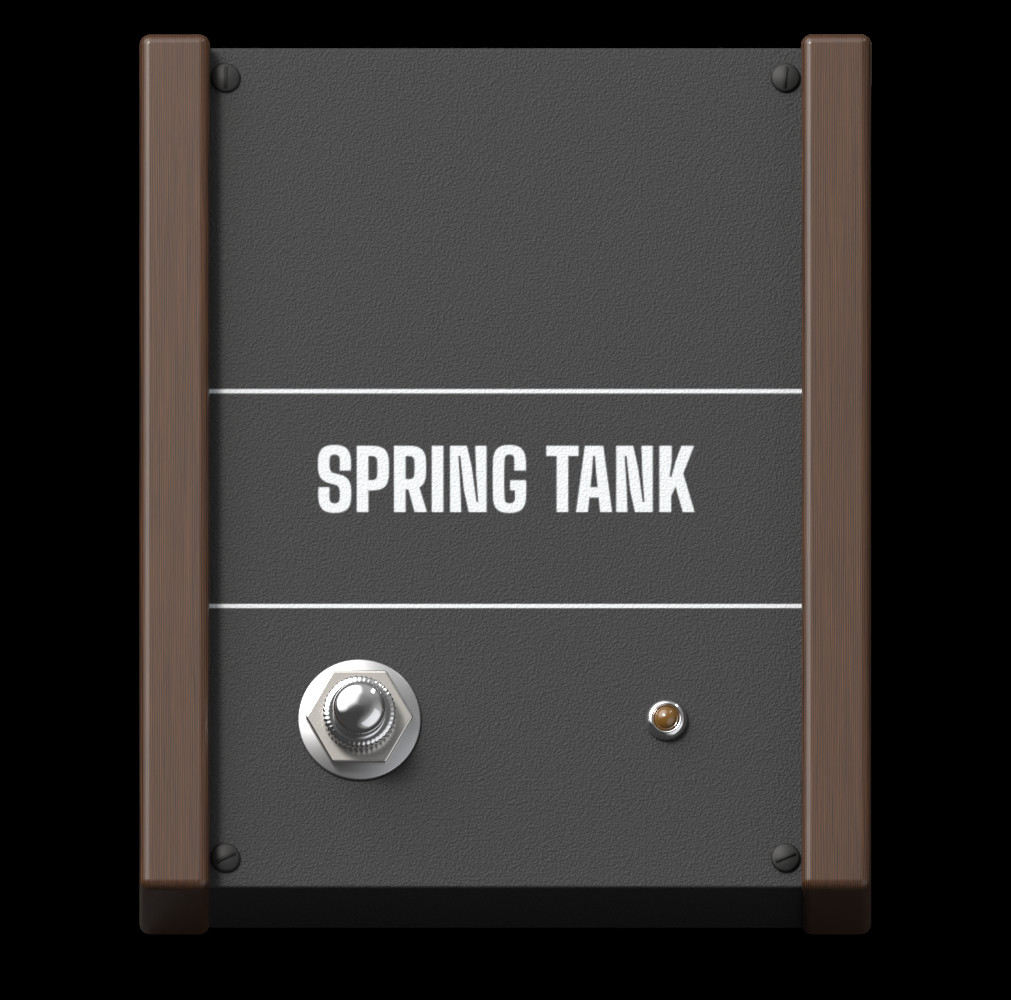
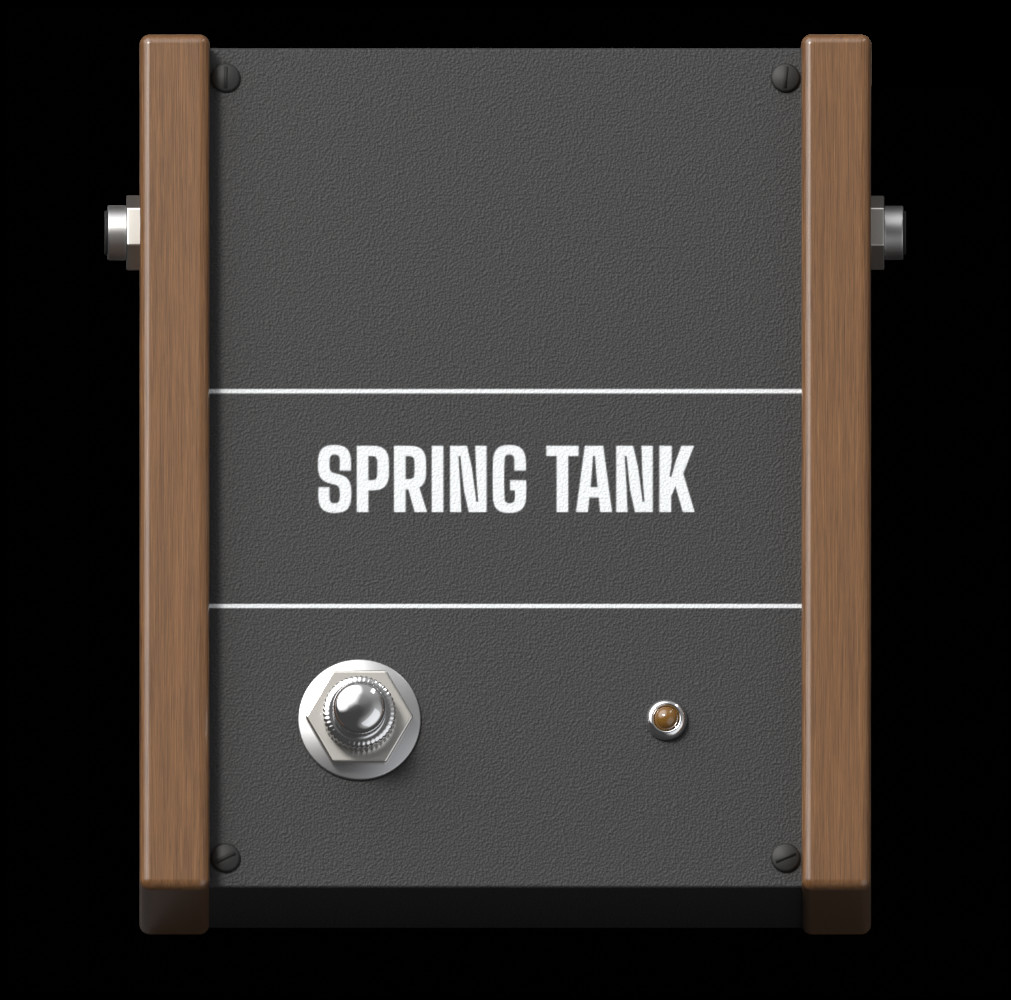
Tuner with a real hardware body; hardwood pedals get grain and jacks; better soft switches; gate light in pictures

Changed region(s): [[0.092, 0.031, 0.2146, 0.899], [0.7666, 0.031, 0.9199, 0.899]]

diff --git a/src/ui/Panels.cpp b/src/ui/Panels.cpp
@@ -2,6 +2,7 @@
 // Copyright (C) 2026 Riffhouse contributors. Licensed under AGPL-3.0-or-later.
 #include "AudioPicker.h"
 #include "Panels.h"
+#include "GearArt.h"
 #include "../plugin/DeviceLog.h"
 #include "../plugin/Reports.h"
 #include "../plugin/StandaloneHost.h"
@@ -24,7 +25,7 @@ TunerView::TunerView (RiffhouseProcessor& p) : proc (p)
 void TunerView::resized()
 {
     close.setBounds (getWidth() - 70, 20, 46, 46);
-    mute.setBounds (juce::Rectangle<int> (290, 28).withCentre ({ getWidth() / 2, 600 })); // with the rest of the tuner, not at the far edge
+    mute.setBounds (juce::Rectangle<int> (290, 28).withCentre ({ getWidth() / 2, 640 })); // with the rest of the tuner, not at the far edge
 }
 
 void TunerView::refresh()
@@ -49,6 +50,11 @@ void TunerView::paint (juce::Graphics& g)
     const bool inTune = live && std::abs (reading.cents) < 3.0f;
     const auto c = ! live ? colours::textFaint : (inTune ? colours::good : (std::abs (reading.cents) < 12.0f ? colours::warn : colours::accent));
     const float cx = (float) getWidth() * 0.5f;
+    // the tuner's body is photographed: the note and the needle are shown through its two windows
+    const bool unit = art::has ("tuner_unit");
+    if (unit)
+        art::draw (g, "tuner_unit", juce::Rectangle<float> (cx - 450.0f, 50.0f, 900.0f, 470.0f));
+    const float below = unit ? 30.0f : 0.0f;
 
     // note name, big
     const auto noteArea = juce::Rectangle<float> (420.0f, 190.0f).withCentre ({ cx, 210.0f });
@@ -58,7 +64,7 @@ void TunerView::paint (juce::Graphics& g)
         g.fillEllipse (noteArea.withSizeKeepingCentre (440.0f, 300.0f));
     }
     const bool display = look() != Look::studio;
-    if (display)
+    if (display && ! unit)
         drawWell (g, noteArea.withSizeKeepingCentre (340.0f, 210.0f), 16.0f);
     g.setColour (live ? (display && inTune ? colours::good : colours::text) : colours::textFaint.withAlpha (0.6f));
     g.setFont (display ? font (165.0f, Weight::numeric) : font (168.0f, Weight::display));
@@ -81,7 +87,7 @@ void TunerView::paint (juce::Graphics& g)
     }
 
     // horizontal cents scale
-    const float w = 680.0f, y = 400.0f;
+    const float w = unit ? 600.0f : 680.0f, y = 400.0f;
     const float x0 = cx - w * 0.5f;
     for (int cents = -50; cents <= 50; cents += 5)
     {
@@ -99,8 +105,8 @@ void TunerView::paint (juce::Graphics& g)
     }
     g.setFont (font (13.0f, Weight::semibold));
     g.setColour (colours::textFaint);
-    g.drawText ("FLAT", juce::Rectangle<float> (x0 - 90.0f, y - 10.0f, 70.0f, 20.0f), juce::Justification::centredRight);
-    g.drawText ("SHARP", juce::Rectangle<float> (x0 + w + 20.0f, y - 10.0f, 70.0f, 20.0f), juce::Justification::centredLeft);
+    g.drawText ("FLAT", juce::Rectangle<float> (x0 - (unit ? 78.0f : 90.0f), y - 10.0f, unit ? 60.0f : 70.0f, 20.0f), juce::Justification::centredRight);
+    g.drawText ("SHARP", juce::Rectangle<float> (x0 + w + (unit ? 18.0f : 20.0f), y - 10.0f, unit ? 60.0f : 70.0f, 20.0f), juce::Justification::centredLeft);
 
     if (live)
     {
@@ -116,15 +122,15 @@ void TunerView::paint (juce::Graphics& g)
     g.setFont (font (22.0f, Weight::semibold));
     g.setColour (c);
     const juce::String status = ! live ? "Play one string" : (inTune ? "In tune" : (reading.cents < 0 ? "A little flat, tune up" : "A little sharp, tune down"));
-    g.drawText (status, juce::Rectangle<float> (600.0f, 30.0f).withCentre ({ cx, y + 86.0f }), juce::Justification::centred);
+    g.drawText (status, juce::Rectangle<float> (600.0f, 30.0f).withCentre ({ cx, y + 86.0f + below }), juce::Justification::centred);
     g.setFont (font (14.5f));
     g.setColour (colours::textDim);
     if (live)
         g.drawText (juce::String (reading.hz, 1) + juce::String (" Hz, ") + (reading.cents > 0 ? "+" : "") + juce::String (juce::roundToInt (reading.cents)) + " cents",
-                    juce::Rectangle<float> (500.0f, 24.0f).withCentre ({ cx, y + 116.0f }), juce::Justification::centred);
+                    juce::Rectangle<float> (500.0f, 24.0f).withCentre ({ cx, y + 116.0f + below }), juce::Justification::centred);
     g.setColour (colours::textFaint);
     g.drawText ("Any tuning works: standard, drop, open or down-tuned. It always shows the nearest note.",
-                juce::Rectangle<float> (760.0f, 24.0f).withCentre ({ cx, y + 146.0f }), juce::Justification::centred);
+                juce::Rectangle<float> (760.0f, 24.0f).withCentre ({ cx, y + 146.0f + below }), juce::Justification::centred);
 }
 
 //==============================================================================

diff --git a/tools/gear3d/tuner.py b/tools/gear3d/tuner.py
@@ -1,0 +1,73 @@
+# Riffhouse - free, open-source guitar rig
+# Copyright (C) 2026 Riffhouse contributors. Licensed under AGPL-3.0-or-later.
+"""Photograph the tuner's hardware: a stage tuner's face with a note window and a needle window.
+
+    blender -b -P tuner.py -- <output folder> [--samples n] [--scale s]
+
+Nominal pixels of the tuner page (Panels.cpp, TunerView) shifted so that x = 0 is 450 left of the
+page's centre and y = 0 is 50 below its top. The note and the needle are drawn by the app on top.
+"""
+import math
+import os
+import sys
+
+sys.path.insert(0, os.path.dirname(os.path.abspath(__file__)))
+import common as c  # noqa: E402
+import amps  # noqa: E402
+from common import CM  # noqa: E402
+
+D = 2.4
+UNIT = (20.0, 14.0, 860.0, 430.0)
+NOTE = (150.0, 50.0, 600.0, 220.0)
+NEEDLE = (60.0, 300.0, 780.0, 118.0)
+
+
+def build(out, samples, scale):
+    st = c.Stage((0.0, 0.0, 900.0, 470.0), D, scale=scale, samples=samples, floor=True)
+
+    def rbox(name, r, z0, z1, mat, corner=0.0):
+        p, q = st.at(r[0], r[1], z1), st.at(r[0] + r[2], r[1] + r[3], z1)
+        return c.box(name, p.x, q.x, q.y, p.y, z0, z1, mat, corner=corner)
+
+    alu = c.principled("tuner-alu", (0.034, 0.036, 0.04), metallic=0.92, rough=0.36)
+    n = c.Nodes(alu)
+    grain = n.noise(120.0, 4.0, stretch=(0.012, 22.0, 22.0))
+    n.link(n.bump(grain, 0.5, 0.008), n.bsdf.inputs["Normal"])
+    n.link(n.math("MULTIPLY_ADD", grain, 0.18, 0.28), n.bsdf.inputs["Roughness"])
+    glass = c.principled("tuner-glass", (0.004, 0.0045, 0.005), rough=0.12, coat=1.0, coat_rough=0.02)
+    body = rbox("unit", UNIT, 0.0, D, alu, corner=16 * CM)
+    c.grid(body, 0.4)
+    for name, r, rad in (("note", NOTE, 14), ("needle", NEEDLE, 12)):
+        c.cut(body, rbox(name + "-well", r, D - 0.7, D + 1, c.black(), corner=rad * CM))
+    mod = body.modifiers.new("chamfer", "BEVEL")
+    mod.width, mod.segments, mod.limit_method, mod.angle_limit = 0.16, 3, "ANGLE", math.radians(50)
+    body.modifiers.new("normals", "WEIGHTED_NORMAL")
+    for name, r, rad in (("note", NOTE, 14), ("needle", NEEDLE, 12)):
+        rbox(name + "-glass", r, D - 0.74, D - 0.7, glass, corner=rad * CM)
+        # a chrome rim round each window, a hair proud of the panel
+        rim = rbox(name + "-rim", (r[0] - 5, r[1] - 5, r[2] + 10, r[3] + 10), D - 0.02, D + 0.07, c.chrome(), corner=(rad + 5) * CM)
+        c.cut(rim, rbox(name + "-rimcut", r, D - 1, D + 1, c.black(), corner=rad * CM))
+        c.roll(rim, 0.03, 3)
+    for sx in (UNIT[0] + 22, UNIT[0] + UNIT[2] - 22):
+        for sy in (UNIT[1] + 22, UNIT[1] + UNIT[3] - 22):
+            amps.screw_head(st, sx, sy, D, 0.2, c.chrome(), sx * 0.01 + sy * 0.02)
+    for fx in (UNIT[0] + 70, UNIT[0] + UNIT[2] - 70 - 60):
+        p, q = st.at(fx, UNIT[1] + UNIT[3] - 2, D * 0.5), st.at(fx + 60, UNIT[1] + UNIT[3] + 8, D * 0.5)
+        ft = c.box("foot", p.x, q.x, q.y, p.y, D * 0.15, D * 0.85, c.rubber(), corner=0.15)
+        c.roll(ft, 0.1, 3)
+    st.render(os.path.join(out, "tuner_unit.png"))
+
+
+def main():
+    args = sys.argv[sys.argv.index("--") + 1:] if "--" in sys.argv else sys.argv[1:]
+    out = args[0]
+    samples, scale = 128, 2.0
+    for i, a in enumerate(args):
+        if a == "--samples": samples = int(args[i + 1])
+        if a == "--scale": scale = float(args[i + 1])
+    os.makedirs(out, exist_ok=True)
+    build(out, samples, scale)
+
+
+if __name__ == "__main__":
+    main()

diff --git a/tools/gear3d/common.py b/tools/gear3d/common.py
@@ -354,26 +354,27 @@ def bakelite(): return principled("bakelite", (0.006, 0.006, 0.007), rough=0.22)
 
 
 def wood(seed=0.0):
-    """Varnished hardwood, the grain running the length of the box."""
-    m = principled("wood", (0.2, 0.09, 0.04), rough=0.45, coat=0.4, coat_rough=0.16)
+    """Varnished walnut, the grain running the length of the box: pores, a cathedral figure, a deep gloss."""
+    m = principled("wood", (0.2, 0.09, 0.04), rough=0.3, coat=0.7, coat_rough=0.07)
     n = Nodes(m)
     mp = n.new("ShaderNodeMapping")
-    mp.inputs["Scale"].default_value = (6.0, 0.22, 6.0)
+    mp.inputs["Scale"].default_value = (7.0, 0.18, 7.0)
     mp.inputs["Location"].default_value = (seed, seed * 0.37, 0.0)
     n.link(n.coord.outputs["Object"], mp.inputs["Vector"])
     nz = n.new("ShaderNodeTexNoise")
-    nz.inputs["Scale"].default_value = 1.6
-    nz.inputs["Detail"].default_value = 6.0
-    nz.inputs["Distortion"].default_value = 1.4
+    nz.inputs["Scale"].default_value = 1.8
+    nz.inputs["Detail"].default_value = 8.0
+    nz.inputs["Distortion"].default_value = 1.6
     n.link(mp.outputs["Vector"], nz.inputs["Vector"])
     wave = n.new("ShaderNodeTexWave", wave_type="BANDS", bands_direction="X")
-    wave.inputs["Scale"].default_value = 2.2
-    wave.inputs["Distortion"].default_value = 5.0
-    wave.inputs["Detail"].default_value = 3.0
+    wave.inputs["Scale"].default_value = 3.4
+    wave.inputs["Distortion"].default_value = 6.0
+    wave.inputs["Detail"].default_value = 4.0
     n.link(mp.outputs["Vector"], wave.inputs["Vector"])
-    f = n.math("ADD", n.math("MULTIPLY", wave.outputs["Fac"], 0.6), n.math("MULTIPLY", nz.outputs["Fac"], 0.5))
-    n.link(n.ramp(f, [(0.32, (0.008, 0.003, 0.0015)), (0.55, (0.04, 0.014, 0.005)), (0.78, (0.115, 0.044, 0.014))]), n.bsdf.inputs["Base Color"])
-    n.link(n.bump(f, 0.05, 0.01), n.bsdf.inputs["Normal"])
+    pores = n.noise(120.0, 2.0, stretch=(0.04, 1.0, 1.0))
+    f = n.math("ADD", n.math("MULTIPLY", wave.outputs["Fac"], 0.7), n.math("MULTIPLY", nz.outputs["Fac"], 0.45))
+    n.link(n.ramp(f, [(0.28, (0.014, 0.005, 0.002)), (0.5, (0.075, 0.03, 0.011)), (0.72, (0.2, 0.09, 0.034)), (0.9, (0.3, 0.15, 0.06))]), n.bsdf.inputs["Base Color"])
+    n.link(n.bump(n.math("ADD", f, n.math("MULTIPLY", pores, 0.6)), 0.12, 0.01), n.bsdf.inputs["Normal"])
     return m
 
 

diff --git a/tools/gear3d/pedals.py b/tools/gear3d/pedals.py
@@ -89,13 +89,18 @@ def stomp_switch(st, bodies, x, y, fs, parts):
 
 
 def soft_switch(st, bodies, x, y, fs, parts):
-    """A low soft-touch switch in a counterbore: a satin ring round a dished black button."""
+    """A soft-touch switch: a chromed flange and nut, a black rubber cap with a groove ring and fine pebble grain."""
     p, nrm = st.on(bodies, x, y)
     r = fs * 0.5
-    ring = c.lathe("ring", [(r * 0.98, 0), (r * 0.98, 0.1), (r * 0.94, 0.16), (r * 0.8, 0.17), (r * 0.78, 0.08)], parts["chrome"], seg=96)
-    cap = c.lathe("cap", [(r * 0.78, 0.05), (r * 0.78, 0.2), (r * 0.74, 0.25), (r * 0.6, 0.24), (r * 0.3, 0.215), (0.0001, 0.205)],
-                  c.principled("softcap", (0.02, 0.021, 0.023), rough=0.42), seg=96)
-    for ob in (ring, cap):
+    ring = c.lathe("ring", [(r * 1.02, 0), (r * 1.02, 0.09), (r * 0.98, 0.17), (r * 0.9, 0.2), (r * 0.84, 0.16), (r * 0.8, 0.08)], parts["chrome"], seg=128,
+                   flutes=36, depth=0.012, flute_rings=(0, 2))
+    rubber = c.principled("softcap", (0.014, 0.015, 0.016), rough=0.62)
+    n = c.Nodes(rubber)
+    n.link(n.bump(n.noise(260.0, 3.0), 0.5, 0.012), n.bsdf.inputs["Normal"])
+    cap = c.lathe("cap", [(r * 0.8, 0.06), (r * 0.8, 0.24), (r * 0.76, 0.31), (r * 0.7, 0.32), (r * 0.67, 0.27), (r * 0.64, 0.32), (r * 0.5, 0.31),
+                          (r * 0.3, 0.27), (0.0001, 0.255)], rubber, seg=128)
+    dot = c.lathe("pip", [(r * 0.12, 0.255), (r * 0.12, 0.27), (r * 0.08, 0.285), (0.0001, 0.288)], parts["chrome"], seg=32)
+    for ob in (ring, cap, dot):
         c.stand(ob, p, nrm)
 
 
@@ -338,9 +343,8 @@ def build(p, gear_dir, out_dir, samples, scale):
         stomp_switch(st, bodies, fx + fw / 2, fy + fh / 2, fs, parts)
     elif p["footStyle"] == 2:
         soft_switch(st, bodies, fx + fw / 2, fy + fh / 2, fs, parts)
-    if form != 4:
-        jy = by + bh * (0.13 if form == 5 else (0.19 if form == 1 else 0.22))
-        side_jacks(st, x0, x1, jy, H * 0.52, parts)
+    jy = by + bh * (0.13 if form == 5 else (0.19 if form == 1 else 0.22))
+    side_jacks(st, x0, x1, jy, H * 0.52, parts)
     if p["stripe"] == 2:
         tread_strip(st, bodies[0], p["box"], os.path.join(out_dir, "_work"), pid, parts)
 

diff --git a/src/ui/Editor.cpp b/src/ui/Editor.cpp
@@ -778,7 +778,7 @@ public:
         if (proc.value (P::inputFix) > 0.5f) s.push_back ({ "Input fix on", true });
         if (proc.value (P::gateOn) > 0.5f)
         {
-            const bool open = proc.meters().gateOpen.load();
+            const bool open = demoLevels || proc.meters().gateOpen.load();
             s.push_back ({ juce::String ("Gate ") + (open ? "open" : "closed"), open });
         }
         return s;
